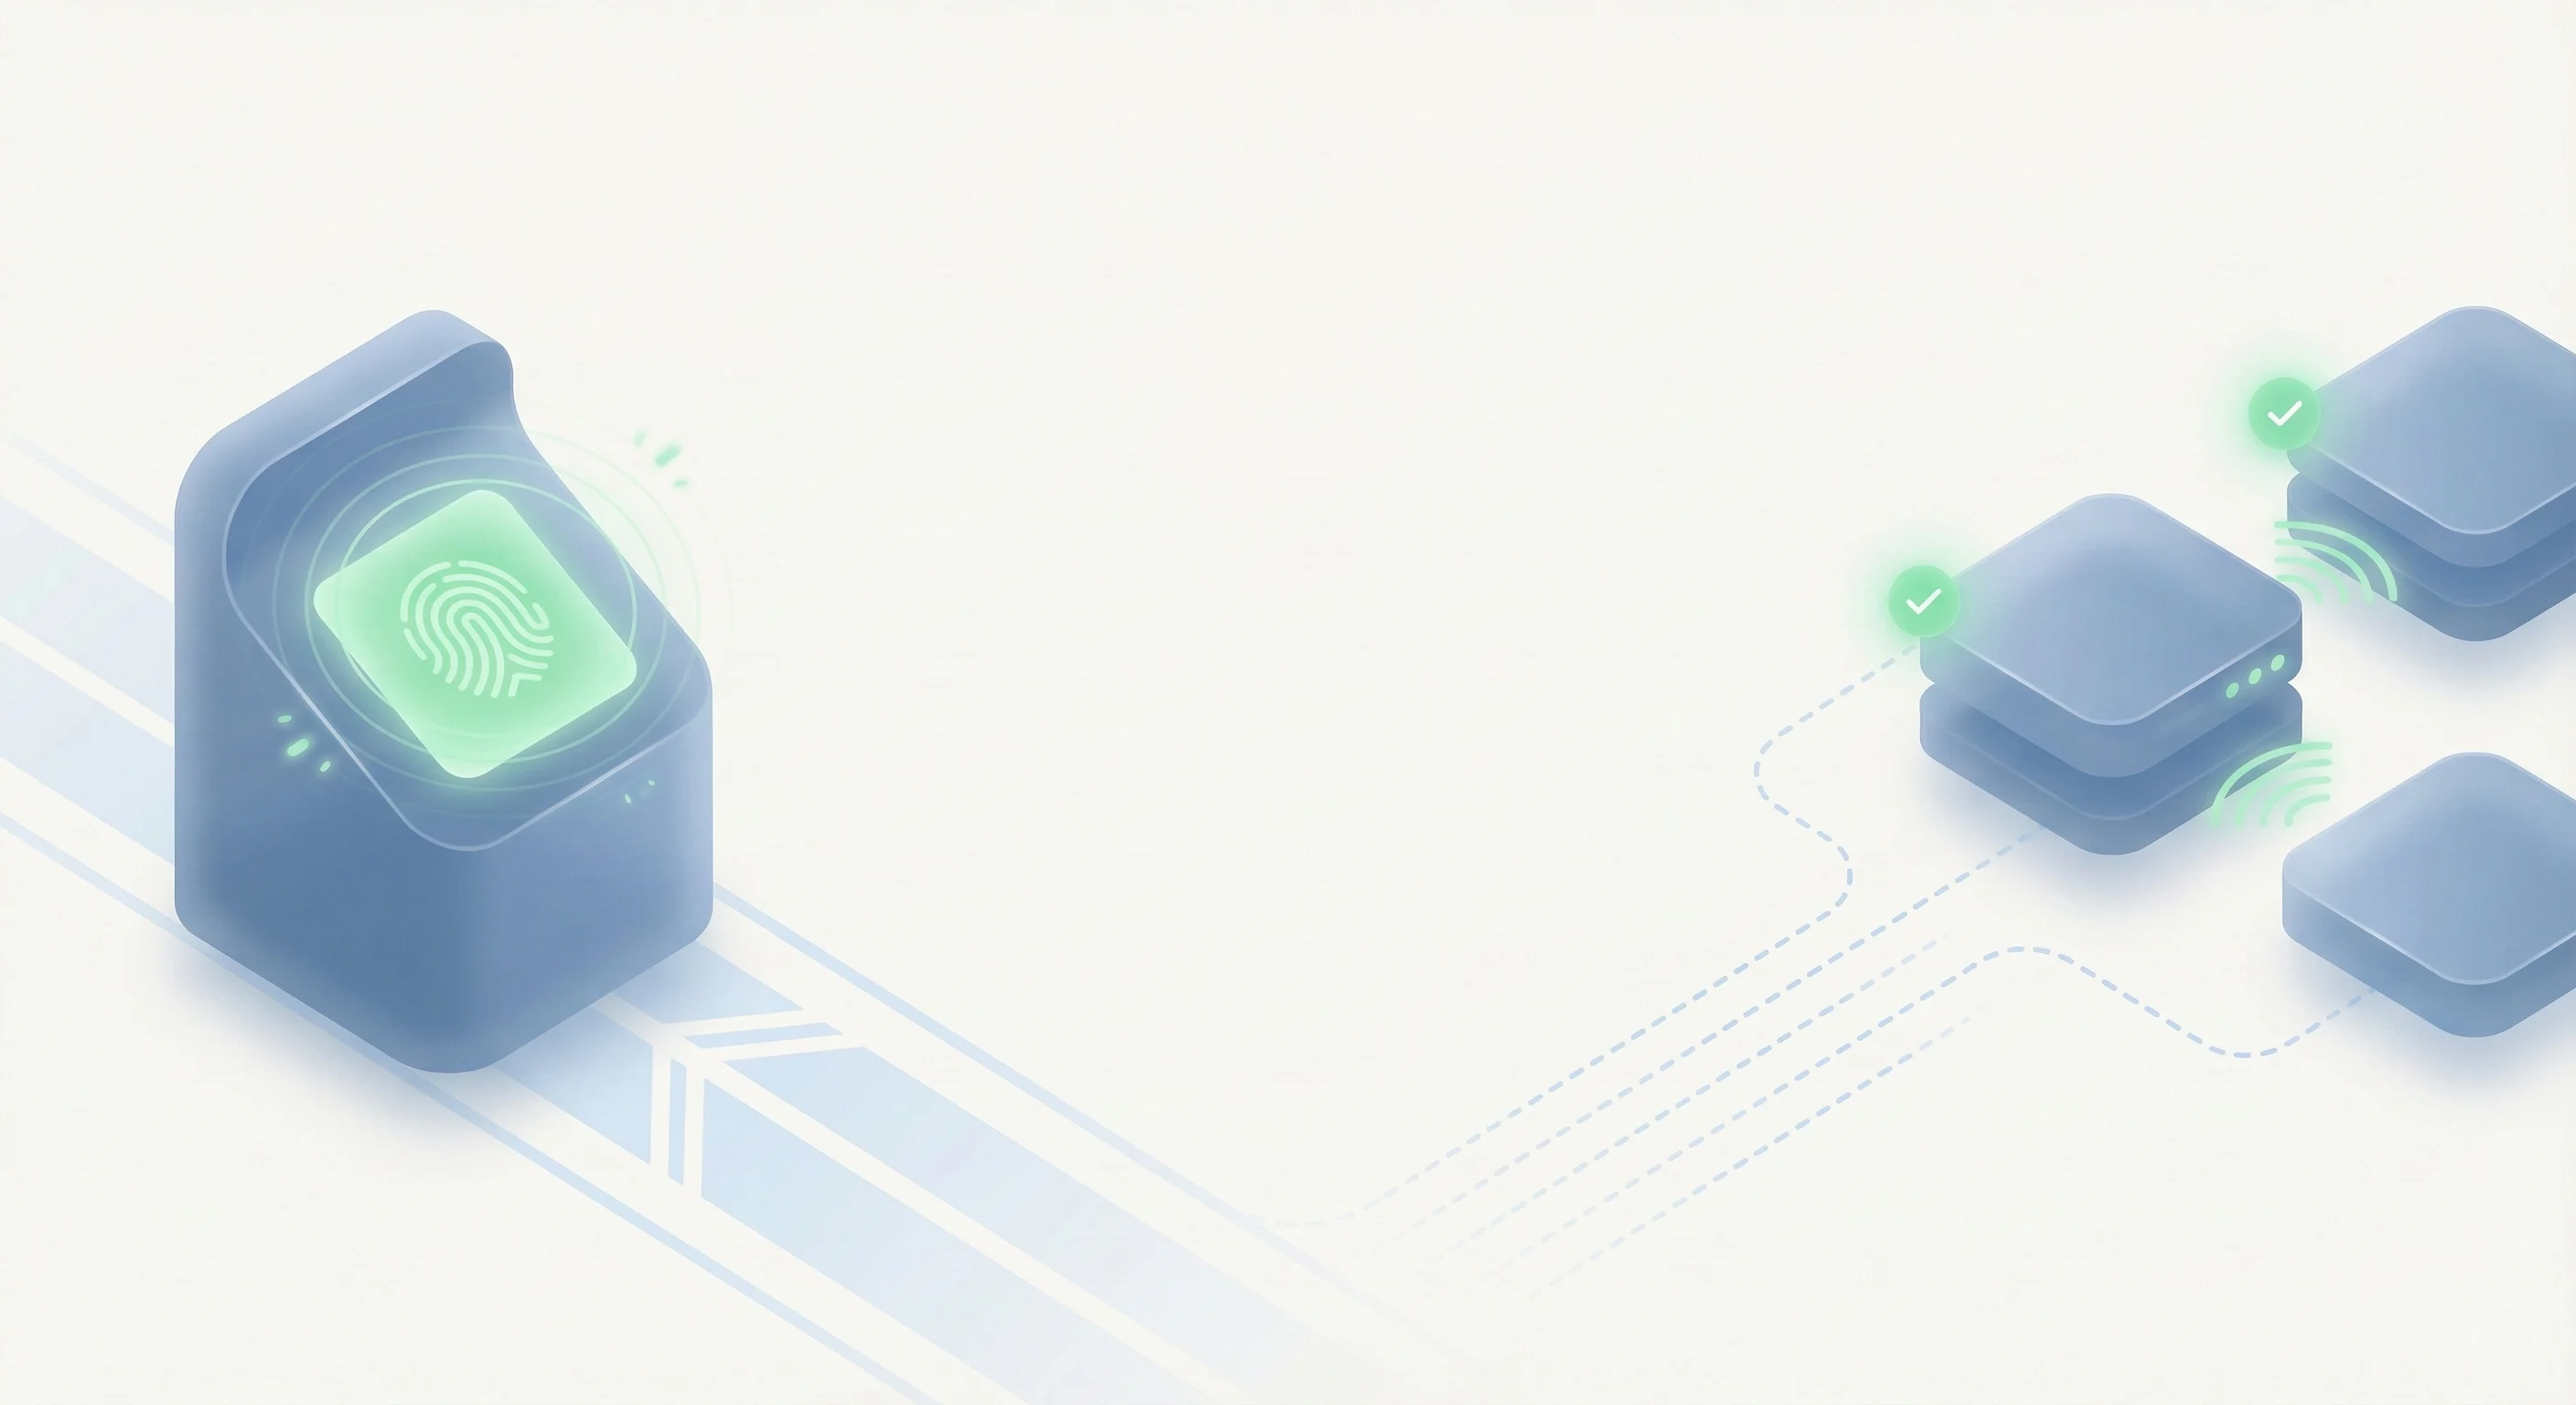
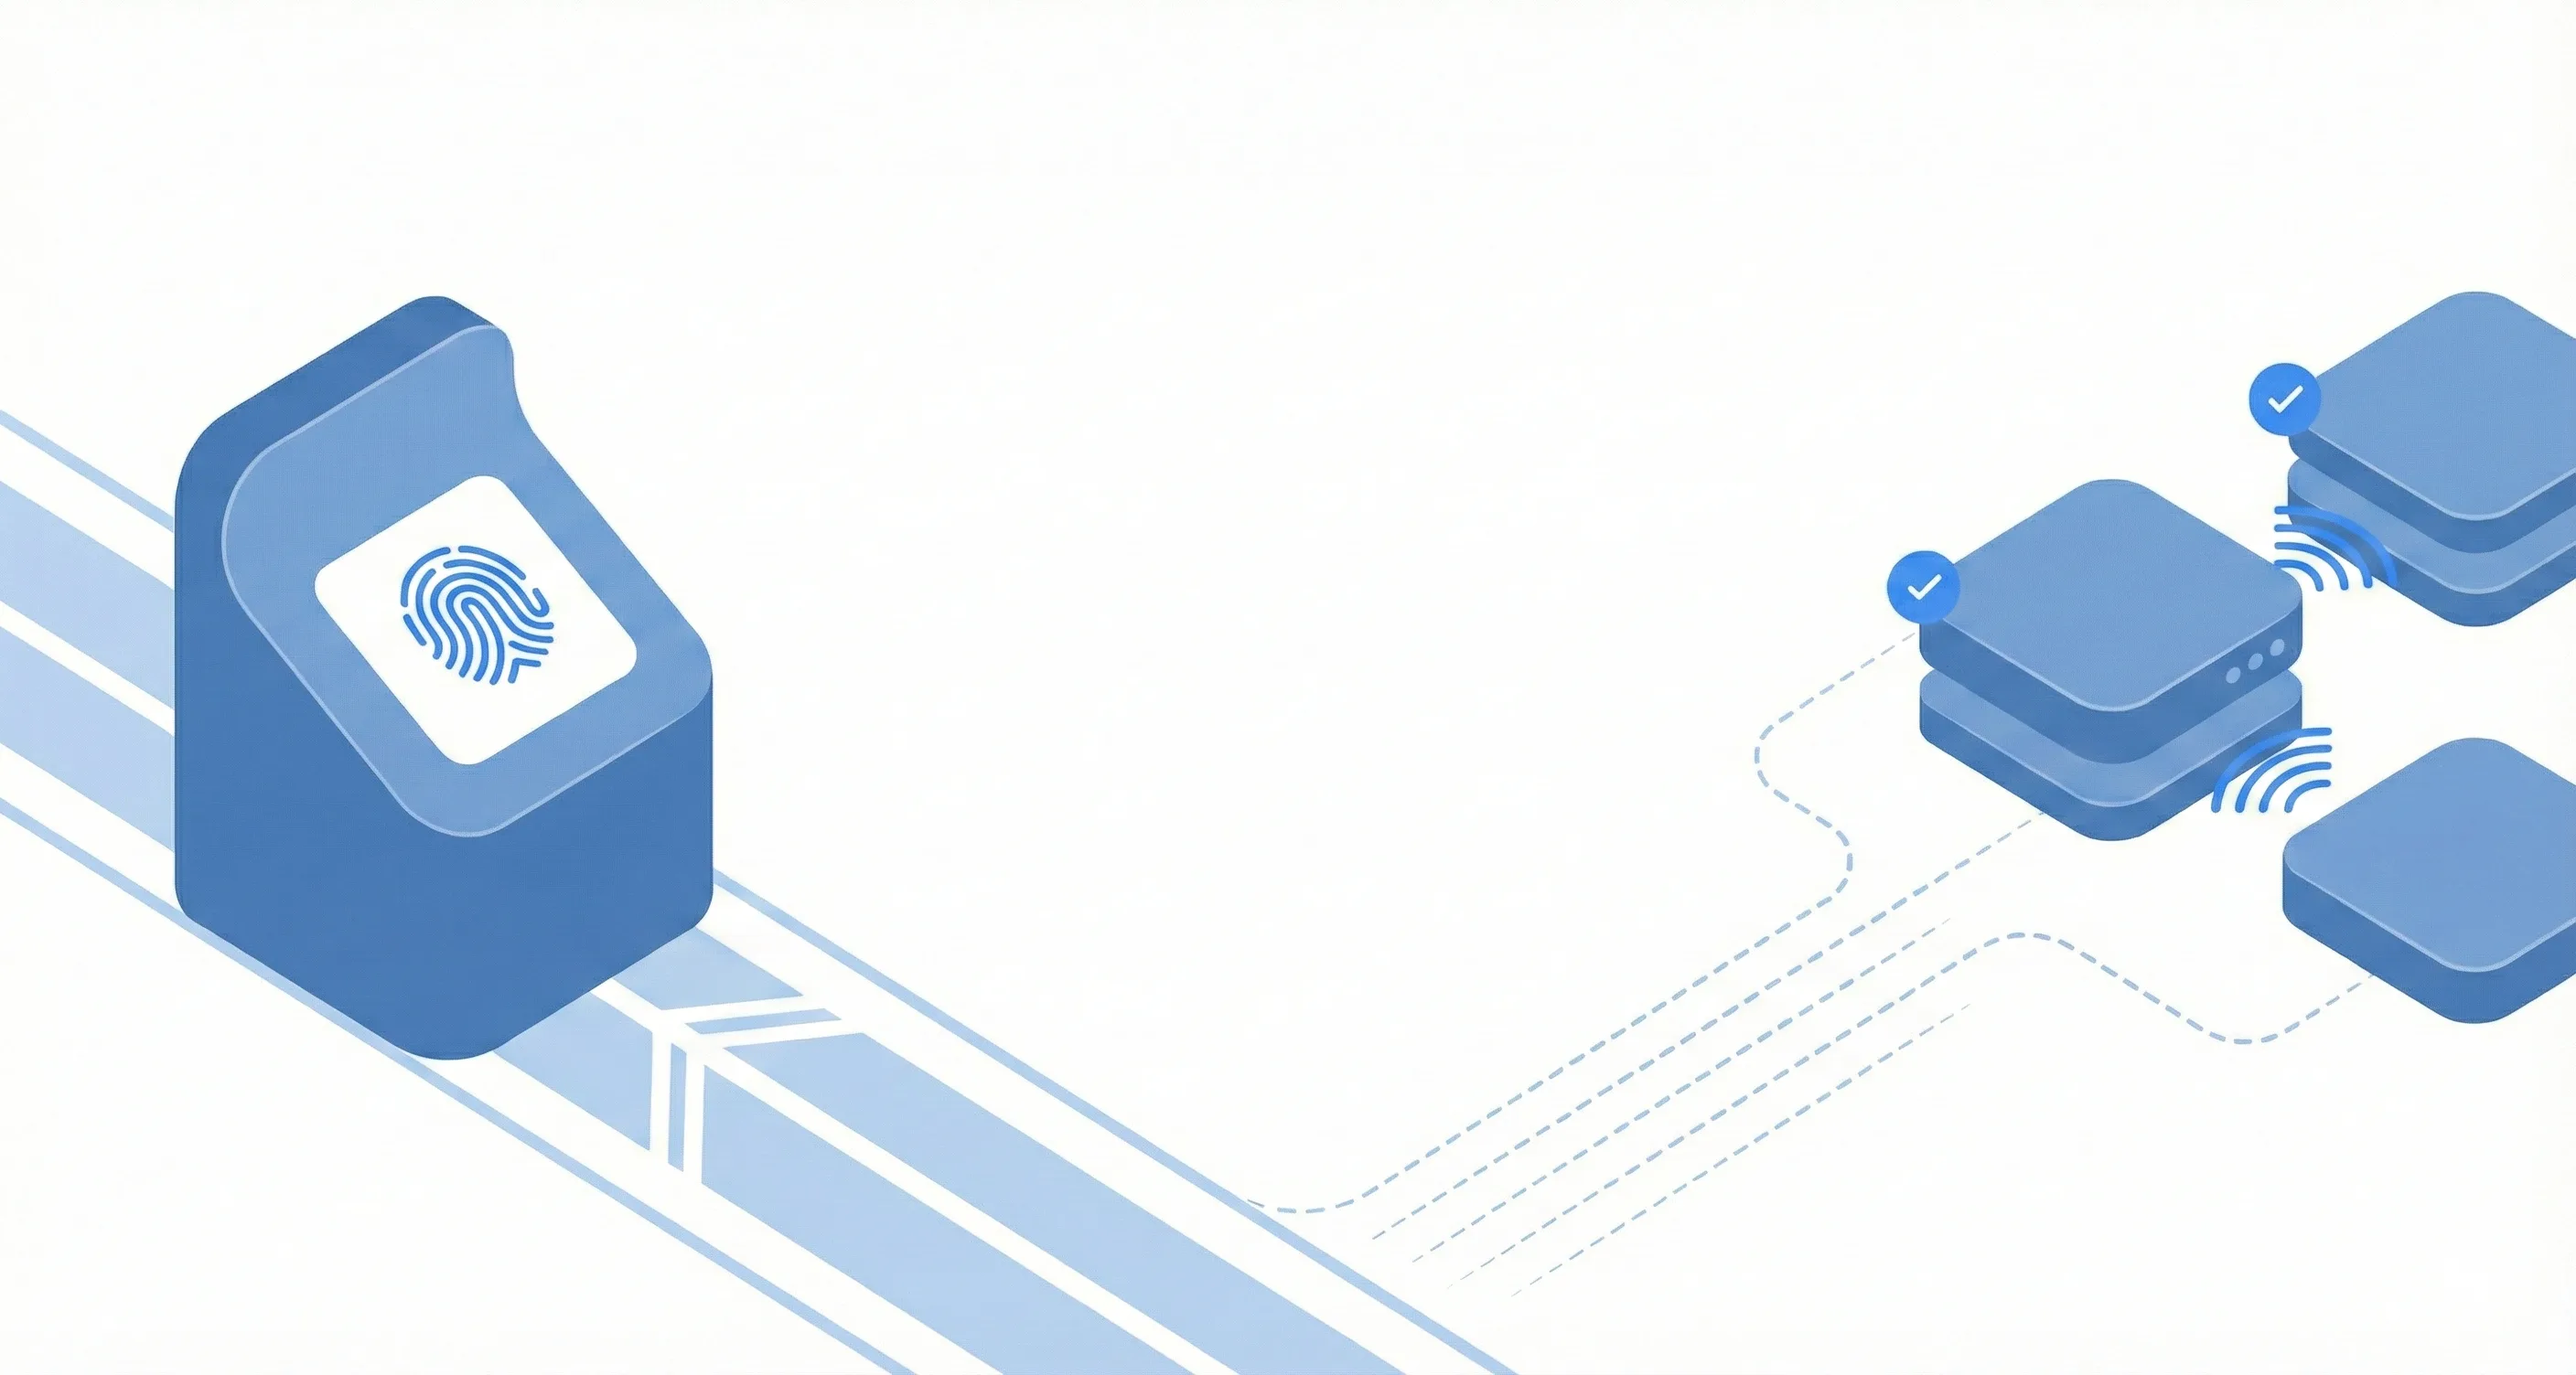
ssk

diff --git a/CaseStudies2.html b/CaseStudies2.html
@@ -670,33 +670,33 @@
                         <div class="features-cards-grid">
                             <a href="CaseStudies1.html" class="features-case-card">
                                 <div class="features-case-image">
-                                    <img src="./src/assets/contentImages/head1.png" alt="Case Study 1" />
+                                    <img src="./src/assets/contentImages/head1.webp" alt="Case Study 1" />
                                 </div>
                                 <div class="features-case-title">1.Optimizing Quarry Profitability via Automated Theft Prevention</div>
                             </a>
 
                             <a href="CaseStudies2.html" class="features-case-card">
                                 <div class="features-case-image">
-                                    <img src="./src/assets/contentImages/head2.png" alt="Case Study 2" />
+                                    <img src="./src/assets/contentImages/head2.webp" alt="Case Study 2" />
                                 </div>
                                 <div class="features-case-title">2.Transforming Customer Experience & Order Speed in Heavy Building Materials </div>
                             </a>
 
                             <a href="CaseStudies3.html" class="features-case-card">
                                 <div class="features-case-image">
-                                    <img src=" ./src/assets/contentImages/head3.png" alt="Case Study 3" />
+                                    <img src=" ./src/assets/contentImages/head3.webp" alt="Case Study 3" />
                                 </div>
                                 <div class="features-case-title">3.Automating E-Invoicing & GST Compliance in Building Materials </div>
                             </a>
                              <a href="CaseStudies4.html" class="features-case-card">
                                 <div class="features-case-image">
-                                    <img src=" ./src/assets/contentImages/head4.png" alt="Case Study 4" />
+                                    <img src=" ./src/assets/contentImages/head4.webp" alt="Case Study 4" />
                                 </div>
                                 <div class="features-case-title">4.Real-Time Vehicle & Trip Management for High-Volume Operations</div>
                             </a>
                                <a href="CaseStudies5.html" class="features-case-card">
                                     <div class="features-case-image">
-                                        <img src=" ./src/assets/contentImages/head5.png" alt="Case Study 5" />
+                                        <img src=" ./src/assets/contentImages/head5.webp" alt="Case Study 5" />
                                     </div>
                                     <div class="features-case-title">5.Complete Financial Control & Profit Analysis for Quarry & RMC Owners</div>
                                 </a>

diff --git a/biometrics.html b/biometrics.html
@@ -366,6 +366,14 @@
             transition: all 0.4s;
             position: relative;
             overflow: hidden;
+            background: rgba(255, 255, 255, 0.288);
+    backdrop-filter: blur(2px);
+    padding: 20px;
+    border-radius: 12px;
+    border: 1px solid rgba(47, 47, 47, 0.053);
+    transition: transform 0.3s ease;
+    border-width: 1px;
+    border-color: #8989894a;
         }
 
         .feature-tile::before {
@@ -390,7 +398,7 @@
         }
 
         .feature-tile.wide {
-            grid-column: span 1;
+            /* grid-column: span 1; */
         }
 
         .feature-tile > * {
@@ -408,7 +416,7 @@
 
         .feature-tile:hover i {
             color: var(--white);
-            transform: scale(1.1);
+            /* transform: scale(1.1); */
         }
 
         .feature-tile h3 {
@@ -2272,11 +2280,11 @@ body {
             }
         }
         .key-features{
-                background:
-        /* linear-gradient(400deg, rgba(0,0,0,0.2) 0%, rgba(0,0,0,0.8)  ), */
-        url("/src/assets/contentImages/bg1.webp") center/cover no-repeat;
-border-radius: 120px;
-                color: #000000;
+              background:
+    linear-gradient(rgba(255,255,255,0.6), rgba(255,255,255,0.6)),
+    url("/src/assets/contentImages/bg1.webp") center/cover no-repeat;
+  border-radius: 120px;
+  color: #000;
                 
         }
     </style>

diff --git a/common.css b/common.css
@@ -113,7 +113,7 @@
 
         .sazs-submenu-grid {
             display: grid;
-            grid-template-columns: repeat(4, 1fr);
+            grid-template-columns: repeat(5, 1fr);
             gap: 2rem;
         }
 
@@ -370,7 +370,7 @@
 
         .features-cards-grid {
             display: grid;
-            grid-template-columns: repeat(4, 1fr);
+            grid-template-columns: repeat(5, 1fr);
             gap: 1.5rem;
         }
 
@@ -389,7 +389,7 @@
 
         .features-case-image {
             width: 100%;
-            height: 130px;
+            height: 100px;
             border-radius: 12px;
             overflow: hidden;
             margin-bottom: 1rem;

diff --git a/summa.html b/summa.html
@@ -883,7 +883,7 @@
                     <div class="sazs-submenu-col">
                         <a href="./src/pages/brickspaver.html" class="sazs-product-card">
                             <div class="sazs-card-img-wrapper">
-                                <img src="./src/assets/contentImages/bricksdrone.png"
+                                    <img src="./src/assets/contentImages/bricksdrone.png"
                                     alt="Brick Manufacturing ERP Software" />
                             </div>
                             <div class="sazs-card-heading">Complete ERP Solution for Brick & Paver Manufacturing

diff --git a/CaseStudies1.html b/CaseStudies1.html
@@ -1561,7 +1561,7 @@ document.addEventListener('click', function (event) {
               Once weighment moved directly from load cell to ERP, the scope for manipulation at the weighbridge vanished.
             </div>
             <div class="panel-quote-attrib">
-              QUARRY DIRECTOR • SAZS APPS ERP CUSTOMER
+              QUARRY • SAZS APPS ERP CUSTOMER
             </div>
           </div>
         </aside>
